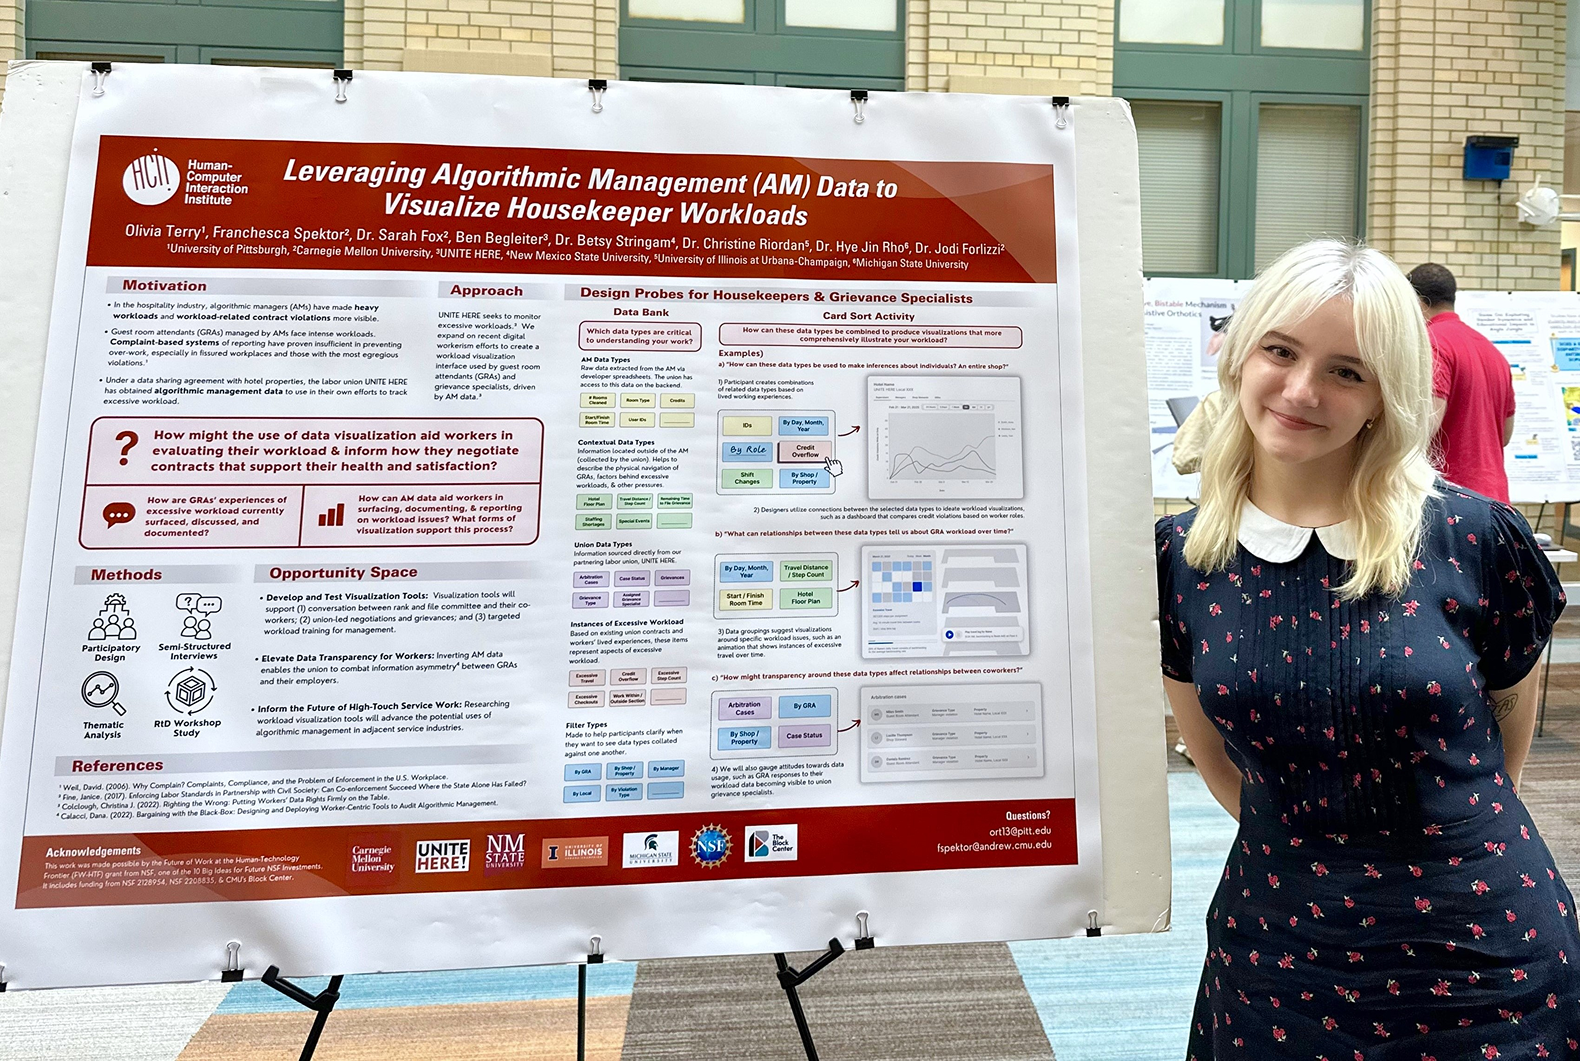
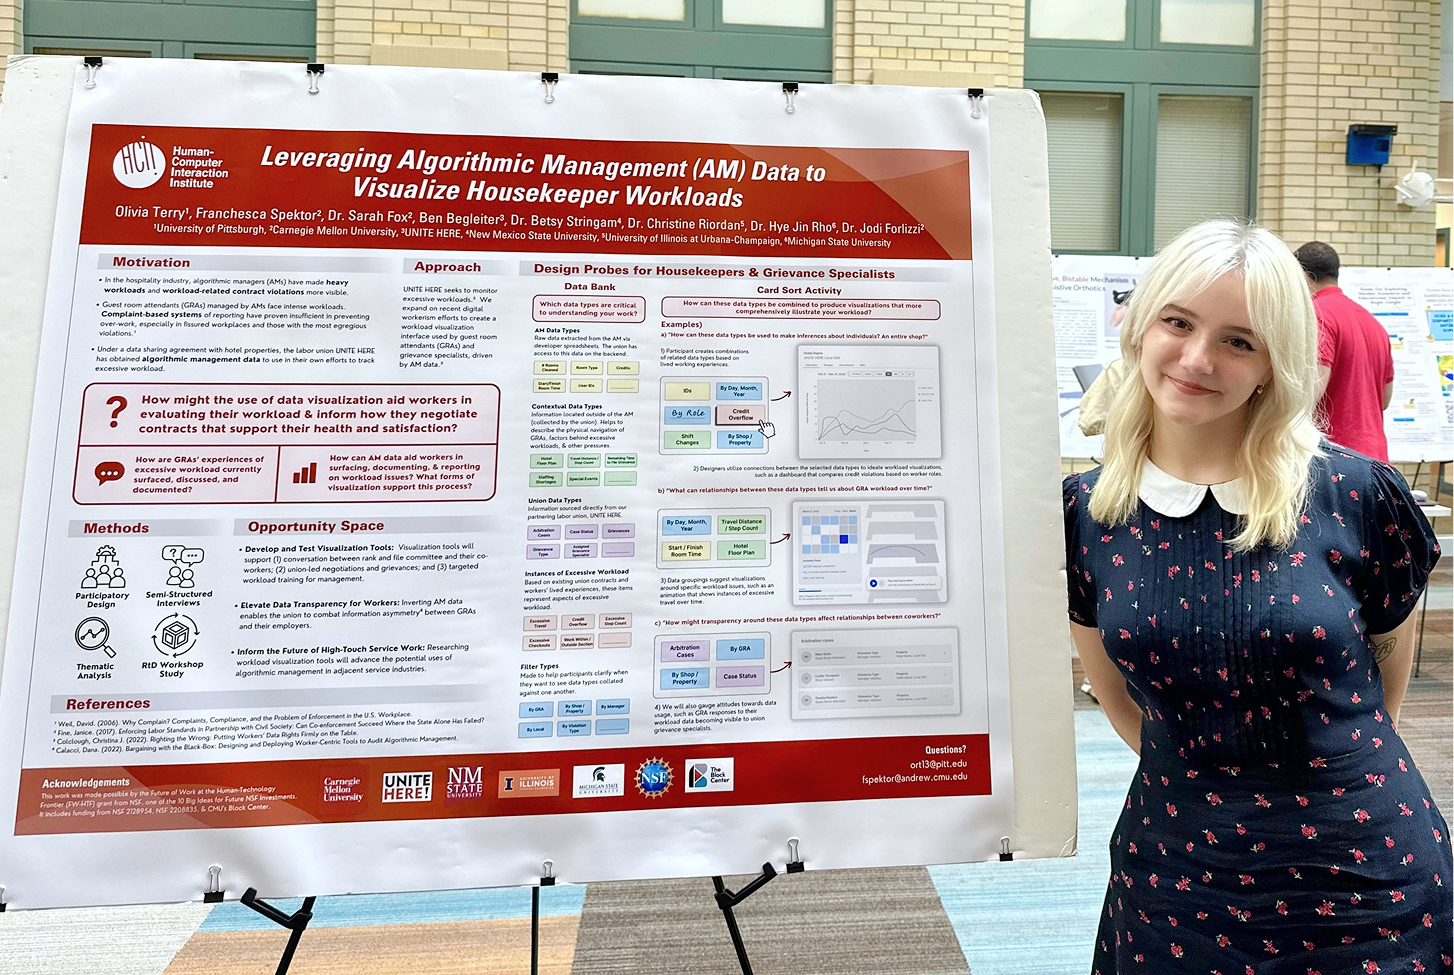
rearranging projects and drop shadow on about photos

diff --git a/index.html b/index.html
@@ -94,18 +94,7 @@
 								</div>-->
 							</header>
 							<section class="tiles">
-								<article class="style5 fade-in-up">
-									<span class="image">
-										<img src="images/zinee-cover.png" alt="" />
-									</span>
-									<a href="bridges-to-belonging.html">
-										
-										<div class="content">
-											<h2 class="tile-header">Bridges to Belonging</h2>
-											<p>A digital library for displaying zine booklets co-created with community members.</p>
-										</div>
-									</a>
-								</article>
+								
 								<article class="style1 fade-in-up">
 									<span class="image">
 										<img src="images/rumii-cover.png" alt="" />
@@ -117,6 +106,18 @@
 											<p>
 												A mobile household management app designed for roommates.
 											</p>
+										</div>
+									</a>
+								</article>
+								<article class="style5 fade-in-up">
+									<span class="image">
+										<img src="images/zinee-cover.png" alt="" />
+									</span>
+									<a href="bridges-to-belonging.html">
+										
+										<div class="content">
+											<h2 class="tile-header">Bridges to Belonging</h2>
+											<p>A digital library for displaying zine booklets co-created with community members.</p>
 										</div>
 									</a>
 								</article>

diff --git a/bridges-to-belonging.html b/bridges-to-belonging.html
@@ -144,7 +144,7 @@
 									</li>
 								</ul>-->
 								
-								<span class="next"><a href="rumii.html" class="next fade-in">Next Project: Rumii <i class="iconoir-arrow-right-circle"></i></a></span>
+								<span class="next"><a href="transit-siop.html" class="next fade-in">Next Project: Transit SIOP <i class="iconoir-arrow-right-circle"></i></a></span>
 								<br><br>
 								
 							</div>

diff --git a/rumii.html b/rumii.html
@@ -321,7 +321,7 @@
 						
 					</ul>
 
-					<span class="next"><a href="transit-siop.html" class="next fade-in">Next Project: Transit SIOP <i class="iconoir-arrow-right-circle"></i></a></span>
+					<span class="next"><a href="bridges-to-belonging.html" class="next fade-in">Next Project: Bridges to Belonging <i class="iconoir-arrow-right-circle"></i></a></span>
 								<br><br>
 				</div>
 

diff --git a/assets/css/main.css b/assets/css/main.css
@@ -681,6 +681,7 @@ input, select, textarea {
 	
 	  .about-photo {
 		width: 100%;
+		box-shadow: 4px 4px 7px rgba(120, 120, 120, 0.5);
 		
 	  }
 
